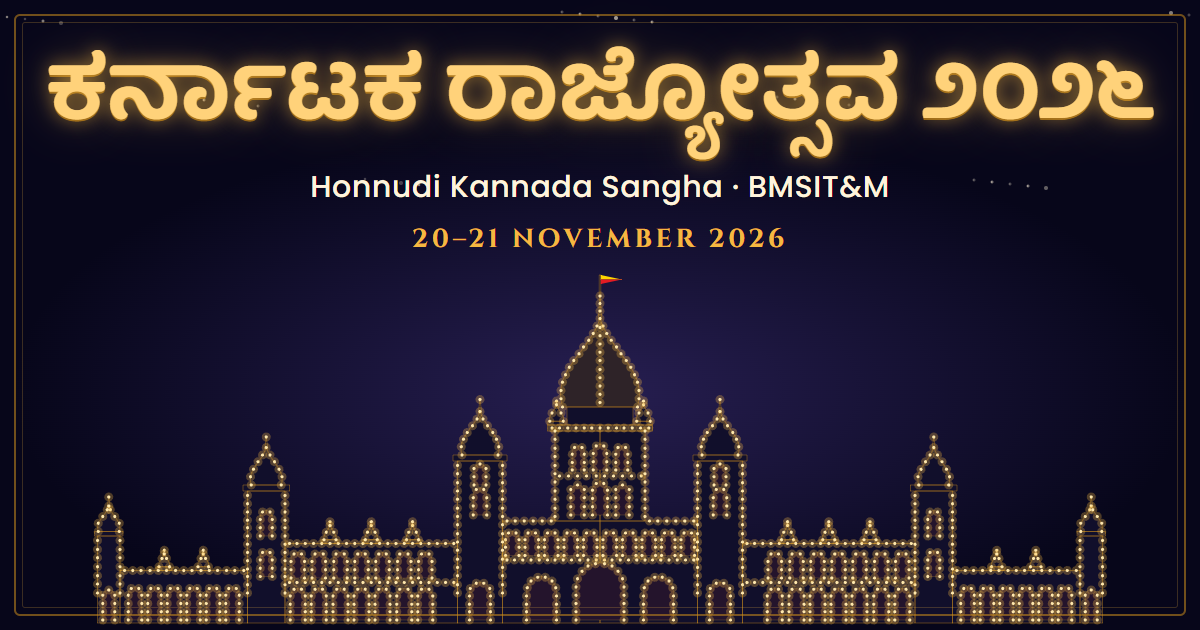
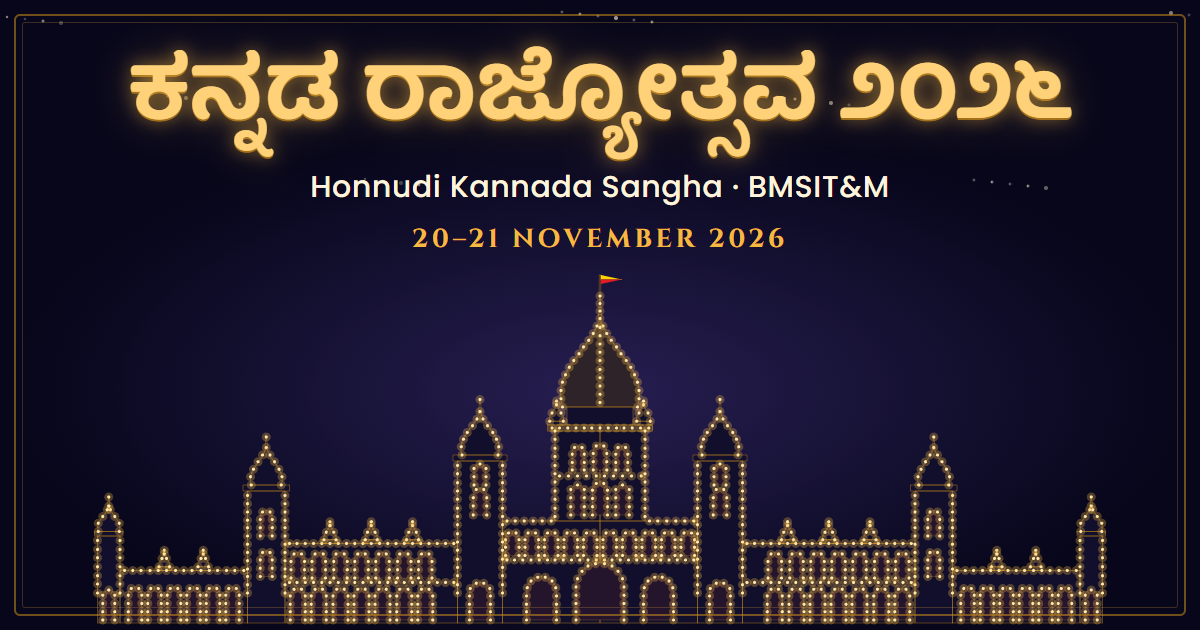
Rename: Kannada Rajyotsava on the website (pass, .ics and email keep Karnataka Rajyotsava)
Wordmark, page titles and descriptions, index.html OG/Twitter tags, manifest and
public/og.png use "Kannada Rajyotsava" / "ಕನ್ನಡ ರಾಜ್ಯೋತ್ಸವ". The pass card reads the
new pass.brand key so it, the PNG, the .ics and the confirmation email keep the old
name. New npm run e2e:rename checks every route in both languages.

Changed region(s): [[0.0308, 0.0603, 0.9867, 0.2714]]

diff --git a/scripts/e2e-rename.ts b/scripts/e2e-rename.ts
@@ -1,0 +1,89 @@
+/**
+ * The festival is "Kannada Rajyotsava" / "ಕನ್ನಡ ರಾಜ್ಯೋತ್ಸವ" everywhere on the website. Only the procession pass
+ * (card + PNG), the .ics file and the confirmation email keep "Karnataka Rajyotsava".
+ *   1. npm run dev            (in another terminal)
+ *   2. npm run e2e:rename     (E2E_BASE, CHROME_PATH optional)
+ * For every route × kn/en: visible text (outside the pass card), <title>, meta description, OG/Twitter tags, alt,
+ * aria-label and title attributes must not contain the old name, and the navbar wordmark shows the new one.
+ * The pass page is checked with a pass in sessionStorage: its card still says "Karnataka Rajyotsava".
+ */
+import puppeteer, { type Page } from 'puppeteer-core';
+
+const BASE = process.env.E2E_BASE ?? 'http://localhost:5173';
+const CHROME = process.env.CHROME_PATH ?? 'C:\\Program Files\\Google\\Chrome\\Application\\chrome.exe';
+const OLD = /Karnataka\s+Rajyotsava|ಕರ್ನಾಟಕ\s+ರಾಜ್ಯೋತ್ಸವ/i;
+const NEW = { kn: 'ಕನ್ನಡ ರಾಜ್ಯೋತ್ಸವ', en: 'Kannada Rajyotsava' } as const;
+const ROUTES = ['/', '/competitions', '/competitions?for=faculty', '/event', '/event?day=1', '/gallery', '/team', '/register', '/register?event=s-essay', '/no-such-page', '/register/success'];
+const PASS = { regId: 'KR26-ESY-0001', eventId: 's-essay', name: 'Ananya Rao', members: [], teamName: '' };
+
+const failures: string[] = [];
+let checks = 0;
+function expect(cond: unknown, msg: string) {
+  checks++;
+  if (!cond) failures.push(msg);
+}
+
+/** Every string a visitor (or a crawler / screen reader) can get from the page, minus the pass card itself. */
+async function pageStrings(page: Page) {
+  return page.evaluate(() => {
+    const clone = document.body.cloneNode(true) as HTMLElement;
+    clone.querySelectorAll('[data-testid^="pass-card"]').forEach((n) => n.remove());
+    const attrs = [...clone.querySelectorAll('[alt],[aria-label],[title]')].flatMap((el) =>
+      ['alt', 'aria-label', 'title'].map((a) => el.getAttribute(a) ?? ''),
+    );
+    const metas = [...document.head.querySelectorAll('meta[name],meta[property]')].map((m) => m.getAttribute('content') ?? '');
+    // innerText of a detached clone is its textContent: also catches text that is only hidden (e.g. closed menus).
+    return { text: document.body.innerText, hidden: clone.textContent ?? '', attrs, metas, title: document.title };
+  });
+}
+
+async function main() {
+  const browser = await puppeteer.launch({ executablePath: CHROME, headless: true, args: ['--no-sandbox'] });
+  for (const lang of ['kn', 'en'] as const) {
+    for (const route of ROUTES) {
+      const ctx = await browser.createBrowserContext();
+      const page = await ctx.newPage();
+      await page.setViewport({ width: 360, height: 800 });
+      await page.evaluateOnNewDocument(
+        `localStorage.setItem('kr26.lang', ${JSON.stringify(lang)}); sessionStorage.setItem('seenIntro', '1');` +
+          `sessionStorage.setItem('kr26.lastPass', ${JSON.stringify(JSON.stringify(PASS))});`,
+      );
+      await page.goto(`${BASE}${route}`, { waitUntil: 'networkidle0' });
+      await page.evaluate(() => document.fonts.ready);
+      const s = await pageStrings(page);
+      const where = `${lang} ${route}`;
+      expect(!OLD.test(s.title), `${where}: <title> has the old name: ${s.title}`);
+      expect(!OLD.test(s.hidden), `${where}: page text (outside the pass) has the old name`);
+      for (const a of s.attrs) expect(!OLD.test(a), `${where}: attribute has the old name: ${a}`);
+      for (const m of s.metas) expect(!OLD.test(m), `${where}: meta tag has the old name: ${m}`);
+      const wordmark = await page.$eval('header', (h) => h.textContent ?? '');
+      expect(wordmark.includes(NEW[lang]), `${where}: navbar wordmark is not "${NEW[lang]}"`);
+      if (route === '/') expect(s.title.includes(NEW[lang]), `${where}: <title> lacks the new name`);
+      if (route === '/register/success') {
+        const card = await page.$eval('[data-testid=pass-card]', (c) => c.textContent ?? '');
+        expect(/Karnataka Rajyotsava|ಕರ್ನಾಟಕ ರಾಜ್ಯೋತ್ಸವ/.test(card), `${where}: the pass card must keep "Karnataka Rajyotsava"`);
+        expect(!card.includes(NEW[lang]), `${where}: the pass card must not use the new name`);
+      }
+      await ctx.close();
+    }
+  }
+  // Static files crawlers read without JavaScript.
+  const page = await browser.newPage();
+  for (const file of ['/manifest.webmanifest', '/index.html']) {
+    const res = await page.goto(`${BASE}${file}`);
+    const body = (await res?.text()) ?? '';
+    expect(!OLD.test(body), `${file} has the old name`);
+    expect(body.includes('Kannada Rajyotsava'), `${file} lacks the new name`);
+  }
+  await browser.close();
+  console.log(`${checks - failures.length}/${checks} checks passed`);
+  if (failures.length) {
+    console.log(failures.map((f) => `  FAIL ${f}`).join('\n'));
+    process.exit(1);
+  }
+}
+
+main().catch((e) => {
+  console.error(e);
+  process.exit(1);
+});

diff --git a/index.html b/index.html
@@ -3,10 +3,10 @@
   <head>
     <meta charset="UTF-8" />
     <meta name="viewport" content="width=device-width, initial-scale=1, viewport-fit=cover" />
-    <title>ಕರ್ನಾಟಕ ರಾಜ್ಯೋತ್ಸವ ೨೦೨೬ | Karnataka Rajyotsava 2026 — BMSIT&amp;M</title>
+    <title>ಕನ್ನಡ ರಾಜ್ಯೋತ್ಸವ ೨೦೨೬ | Kannada Rajyotsava 2026 — BMSIT&amp;M</title>
     <meta
       name="description"
-      content="ಕರ್ನಾಟಕ ರಾಜ್ಯೋತ್ಸವ ೨೦೨೬ — ಬಿ.ಎಂ.ಎಸ್. ತಾಂತ್ರಿಕ ಮತ್ತು ವ್ಯವಸ್ಥಾಪನಾ ಮಹಾವಿದ್ಯಾಲಯ. Karnataka Rajyotsava 2026 at BMS Institute of Technology & Management."
+      content="ಕನ್ನಡ ರಾಜ್ಯೋತ್ಸವ ೨೦೨೬ — ಬಿ.ಎಂ.ಎಸ್. ತಾಂತ್ರಿಕ ಮತ್ತು ವ್ಯವಸ್ಥಾಪನಾ ಮಹಾವಿದ್ಯಾಲಯ. Kannada Rajyotsava 2026 at BMS Institute of Technology & Management."
     />
     <meta name="theme-color" content="#0B0A1F" />
     <link rel="canonical" href="%SITE_URL%/" />
@@ -17,19 +17,19 @@
 
     <!-- Static on purpose: crawlers and link previews do not run JavaScript. -->
     <meta property="og:type" content="website" />
-    <meta property="og:site_name" content="Karnataka Rajyotsava 2026 · BMSIT&amp;M" />
+    <meta property="og:site_name" content="Kannada Rajyotsava 2026 · BMSIT&amp;M" />
     <meta property="og:locale" content="kn_IN" />
     <meta property="og:locale:alternate" content="en_IN" />
     <meta property="og:url" content="%SITE_URL%/" />
-    <meta property="og:title" content="ಕರ್ನಾಟಕ ರಾಜ್ಯೋತ್ಸವ ೨೦೨೬ | Karnataka Rajyotsava 2026" />
+    <meta property="og:title" content="ಕನ್ನಡ ರಾಜ್ಯೋತ್ಸವ ೨೦೨೬ | Kannada Rajyotsava 2026" />
     <meta property="og:description" content="The Dasara Procession — Honnudi Kannada Sangha · BMSIT&amp;M · 20–21 November 2026" />
     <meta property="og:image" content="%SITE_URL%/og.png" />
     <meta property="og:image:type" content="image/png" />
     <meta property="og:image:width" content="1200" />
     <meta property="og:image:height" content="630" />
-    <meta property="og:image:alt" content="The Mysuru-style palace lit with golden bulbs — Karnataka Rajyotsava 2026, 20–21 November, BMSIT&amp;M" />
+    <meta property="og:image:alt" content="The Mysuru-style palace lit with golden bulbs — Kannada Rajyotsava 2026, 20–21 November, BMSIT&amp;M" />
     <meta name="twitter:card" content="summary_large_image" />
-    <meta name="twitter:title" content="ಕರ್ನಾಟಕ ರಾಜ್ಯೋತ್ಸವ ೨೦೨೬ | Karnataka Rajyotsava 2026" />
+    <meta name="twitter:title" content="ಕನ್ನಡ ರಾಜ್ಯೋತ್ಸವ ೨೦೨೬ | Kannada Rajyotsava 2026" />
     <meta name="twitter:description" content="The Dasara Procession — Honnudi Kannada Sangha · BMSIT&amp;M · 20–21 November 2026" />
     <meta name="twitter:image" content="%SITE_URL%/og.png" />
     <style>
@@ -40,7 +40,7 @@
   </head>
   <body>
     <div id="root"></div>
-    <noscript>Please enable JavaScript to view the Karnataka Rajyotsava 2026 website.</noscript>
+    <noscript>Please enable JavaScript to view the Kannada Rajyotsava 2026 website.</noscript>
     <script type="module" src="/src/main.tsx"></script>
   </body>
 </html>

diff --git a/src/components/pass/PassCard.tsx b/src/components/pass/PassCard.tsx
@@ -40,7 +40,7 @@ export const PassCard = forwardRef<HTMLDivElement, { pass: PassData; fixed?: boo
       style={{ backgroundImage: 'radial-gradient(ellipse at 50% 0%, rgba(139,30,45,.55), transparent 65%)' }}
     >
       <div className="pointer-events-none absolute inset-2 rounded-[22px] border border-gold-600/60" aria-hidden="true" />
-      <p className="tracking-latin font-display text-sm text-gold-300">{t('brand.wordmark')} · {formatNumber(2026, lang)}</p>
+      <p className="tracking-latin font-display text-sm text-gold-300">{t('pass.brand')} · {formatNumber(2026, lang)}</p>
       <AmbariMotif className="mx-auto my-3 h-24 w-28" />
       <p className="tracking-latin text-xs text-ivory-300">{t('pass.label')}</p>
       <h2 className="mt-1 text-2xl text-gold-300">{event ? event.name[lang] : pass.eventId}</h2>

diff --git a/scripts/build-social-images.ts b/scripts/build-social-images.ts
@@ -61,7 +61,7 @@ h1{font:700 92px/1.35 Baloo;color:#FFD27A;margin-top:4px;
 </svg>
 <div class="frame"></div>
 <div class="text">
-  <h1>ಕರ್ನಾಟಕ ರಾಜ್ಯೋತ್ಸವ ೨೦೨೬</h1>
+  <h1>ಕನ್ನಡ ರಾಜ್ಯೋತ್ಸವ ೨೦೨೬</h1>
   <div class="club">Honnudi Kannada Sangha · BMSIT&amp;M</div>
   <div class="date">20–21 NOVEMBER 2026</div>
 </div>

diff --git a/CLAUDE.md b/CLAUDE.md
@@ -1,4 +1,4 @@
-# CLAUDE.md — Karnataka Rajyotsava 2026 · BMSIT&M · Honnudi Kannada Sangha
+# CLAUDE.md — Kannada Rajyotsava 2026 · BMSIT&M · Honnudi Kannada Sangha
 
 Read this whole file before writing any code. It is the single source of truth for this project.
 When something here conflicts with your defaults, this file wins. When something is marked
@@ -8,11 +8,11 @@ When something here conflicts with your defaults, this file wins. When something
 
 ## 1. Project
 
-- **What:** Official website for Karnataka Rajyotsava 2026 at BMS Institute of Technology & Management, organised by Honnudi Kannada Sangha.
+- **What:** Official website for Kannada Rajyotsava 2026 at BMS Institute of Technology & Management, organised by Honnudi Kannada Sangha.
 - **Theme:** **Mysuru Dasara procession (Jamboo Savari)** — the site is designed as the procession itself: palace lights switching on at night, the golden Ambari on the elephant, tableaux floats, folk troupes, torchlight.
 - **Two-day festival, BMSIT&M campus:**
   - **Day 1 — Competitions:** **20 November 2026** (Friday). All 12 competitions (students + faculty) happen this day.
-  - **Day 2 — Karnataka Rajyotsava main event:** **21 November 2026** (Saturday), 9:00 AM – 5:45 PM — rally, inauguration & Dasara procession, club performances, fashion show, music concert & DJ.
+  - **Day 2 — Kannada Rajyotsava main event:** **21 November 2026** (Saturday), 9:00 AM – 5:45 PM — rally, inauguration & Dasara procession, club performances, fashion show, music concert & DJ.
   - All dates (both days, countdown targets, registration window, per-event `deadline`) come from `src/data/site.json` / `events.json` — never hard-code a date in a component.
 - **Registration:** **open from now** (no opening date, no seat limits); closes **18 Nov 2026, 23:59 IST** (one day of buffer before competition day so coordinators can prepare lists; per-event deadlines can be earlier). Registration is for **competitions only** — Day 2 needs no registration.
 - **Source of event data:** `Kannada_Rajyotsava_26_Budget_Proposal.docx` (schedule + prize breakdown) — §5.3 and §6 below are taken from it.
@@ -123,7 +123,7 @@ Routes (all inside one `<Layout>` that renders `<Navbar/>`, `<Outlet/>`, `<Foote
 Scroll to top on route change. Active nav item has a gold underline. Lazy-load routes (`React.lazy`).
 
 ### Global UI
-- **Navbar:** sticky, blurred night background; left: "ಕರ್ನಾಟಕ ರಾಜ್ಯೋತ್ಸವ" wordmark; right: links, music toggle, language toggle (KN ⇄ EN). Mobile: hamburger → full-screen menu with staggered links. Language choice persists in localStorage (try/catch).
+- **Navbar:** sticky, blurred night background; left: "ಕನ್ನಡ ರಾಜ್ಯೋತ್ಸವ" wordmark; right: links, music toggle, language toggle (KN ⇄ EN). Mobile: hamburger → full-screen menu with staggered links. Language choice persists in localStorage (try/catch).
 - **Music toggle:** muted by default, never autoplays. Audio file `public/audio/theme.mp3` (TODO-CONFIRM: royalty-free/self-recorded nadaswaram or dollu loop). If file missing, hide the toggle.
 - **Footer:** torches on both sides, "© 2026 ಹೊನ್ನುಡಿ ಕನ್ನಡ ಸಂಘ | ಎಲ್ಲ ಹಕ್ಕುಗಳೂ ಕಾಯ್ದಿರಿಸಲಾಗಿದೆ", Instagram link (TODO-CONFIRM handle), college name, small "Made by" credit.
 
@@ -145,7 +145,7 @@ Scroll to top on route change. Active nav item has a gold underline. Lazy-load r
 ### 5.1 Home `/`
 - College logo + "ಬಿ.ಎಂ.ಎಸ್. ತಾಂತ್ರಿಕ ಮತ್ತು ವ್ಯವಸ್ಥಾಪನಾ ಮಹಾವಿದ್ಯಾಲಯ" row; Honnudi logo (assets in `public/brand/`).
 - Hero: lit palace at night, parallax layers (sky → palace → crowd silhouettes → Ambari elephant walking across the foreground).
-- Eyebrow "ಪ್ರಸ್ತುತಪಡಿಸುತ್ತಿರುವ", title "ಕರ್ನಾಟಕ ರಾಜ್ಯೋತ್ಸವ" with gold glow, subtitle "೨೦೨೬", tagline "ದಸರಾ ಮೆರವಣಿಗೆ" / "The Dasara Procession".
+- Eyebrow "ಪ್ರಸ್ತುತಪಡಿಸುತ್ತಿರುವ", title "ಕನ್ನಡ ರಾಜ್ಯೋತ್ಸವ" with gold glow, subtitle "೨೦೨೬", tagline "ದಸರಾ ಮೆರವಣಿಗೆ" / "The Dasara Procession".
 - **Countdown** (days/hours/mins/secs in plaque tiles; numerals per language) that moves through phases automatically:
   1. Before 20 Nov 09:00 → "ಸ್ಪರ್ಧೆಗಳಿಗೆ" / "Competitions begin in" → `site.json → competitionsStart`.
   2. During 20 Nov → "ಸ್ಪರ್ಧೆಗಳು ನಡೆಯುತ್ತಿವೆ!" / "Competitions are on!" + "Main event in" countdown to `eventStart`.
@@ -171,7 +171,7 @@ Scroll to top on route change. Active nav item has a gold underline. Lazy-load r
 - Skeleton shimmer while status loads.
 
 ### 5.3 Event Details `/event`
-- Title "ಕಾರ್ಯಕ್ರಮ ವಿವರಗಳು", subtitle "ಕರ್ನಾಟಕ ರಾಜ್ಯೋತ್ಸವ ೨೦೨೬".
+- Title "ಕಾರ್ಯಕ್ರಮ ವಿವರಗಳು", subtitle "ಕನ್ನಡ ರಾಜ್ಯೋತ್ಸವ ೨೦೨೬".
 - **Chief guest(s)** in Darbar-hall arch frames with gold pillars. Single clean image — no reflected/duplicated image. (TODO-CONFIRM guest names, titles, photos; if unconfirmed, show a tasteful "ಶೀಘ್ರದಲ್ಲೇ ಘೋಷಣೆ / Announcing soon" frame.)
 - 4 BrassPlaques: dates (20 Nov competitions · 21 Nov main event) · time (Day 2: 9:00 AM – 5:45 PM) · venue (BMSIT&M campus) · cash prize pool (₹39,000 + mementos).
 - **Day tabs** above the timeline: **ದಿನ ೧ · ೨೦ ನವೆಂಬರ್ · ಸ್ಪರ್ಧೆಗಳು** / **ದಿನ ೨ · ೨೧ ನವೆಂಬರ್ · ರಾಜ್ಯೋತ್ಸವ** (Day 1 · Competitions / Day 2 · Rajyotsava). Default to Day 2 except on 20 Nov, when Day 1 is default. Synced to `?day=1|2`.
@@ -401,6 +401,7 @@ Validate every data file with a zod schema at build time (a small `scripts/valid
 | 7 | Polish & QA | Reduced-motion / low-end pass, a11y, Lighthouse, OG card, §12 checklist | ⏳ |
 
 ### Approved decisions (override or refine the sections above)
+- **Name (Nov 2026):** the festival is **"Kannada Rajyotsava" / "ಕನ್ನಡ ರಾಜ್ಯೋತ್ಸವ"** everywhere on the website (`brand.wordmark`, page titles/descriptions, `index.html` OG/Twitter tags, manifest, `public/og.png` from `npm run social:images`). **Exceptions — they keep "Karnataka Rajyotsava" / "ಕರ್ನಾಟಕ ರಾಜ್ಯೋತ್ಸವ":** the pass card and its PNG (`pass.brand`), the `.ics` file (`pass.icsSuffix`, `pass.icsDay2`) and the confirmation email (`buildEmail_` in Code.gs). Site URL, ids and codes are unchanged. `npm run e2e:rename` checks every route × kn/en (text outside the pass card, title, meta, alt/aria/title) and that the pass card still has the old name.
 - **TODO values** (`TODO-CONFIRM` in data) render as "To be announced": hide `tel:` links, all-day `.ics`, "TBA" on the pass; Day 1 events with unknown time go in the "Time TBA" group.
 - **Backend** adds `action=lookup` — requires USN/employee ID **and** the full phone to match; returns only `regId`, `event`, `name`. Used on the pass page when local data is lost.
 - **BMSIT-only.** One person may register for several events; duplicates are checked per event only. Category is derived from the event and locked. Team member rows take a USN (student events) or employee ID (faculty events); the duplicate check covers both.
